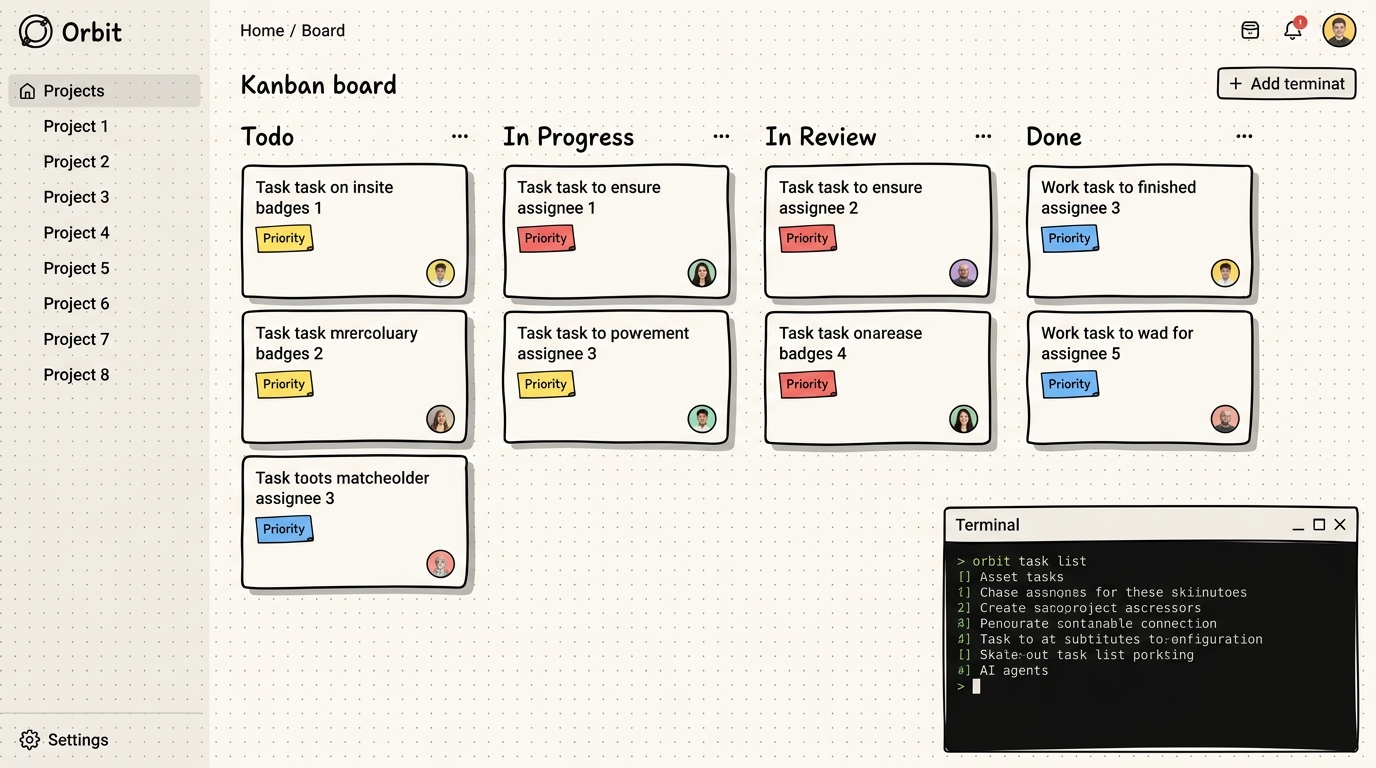
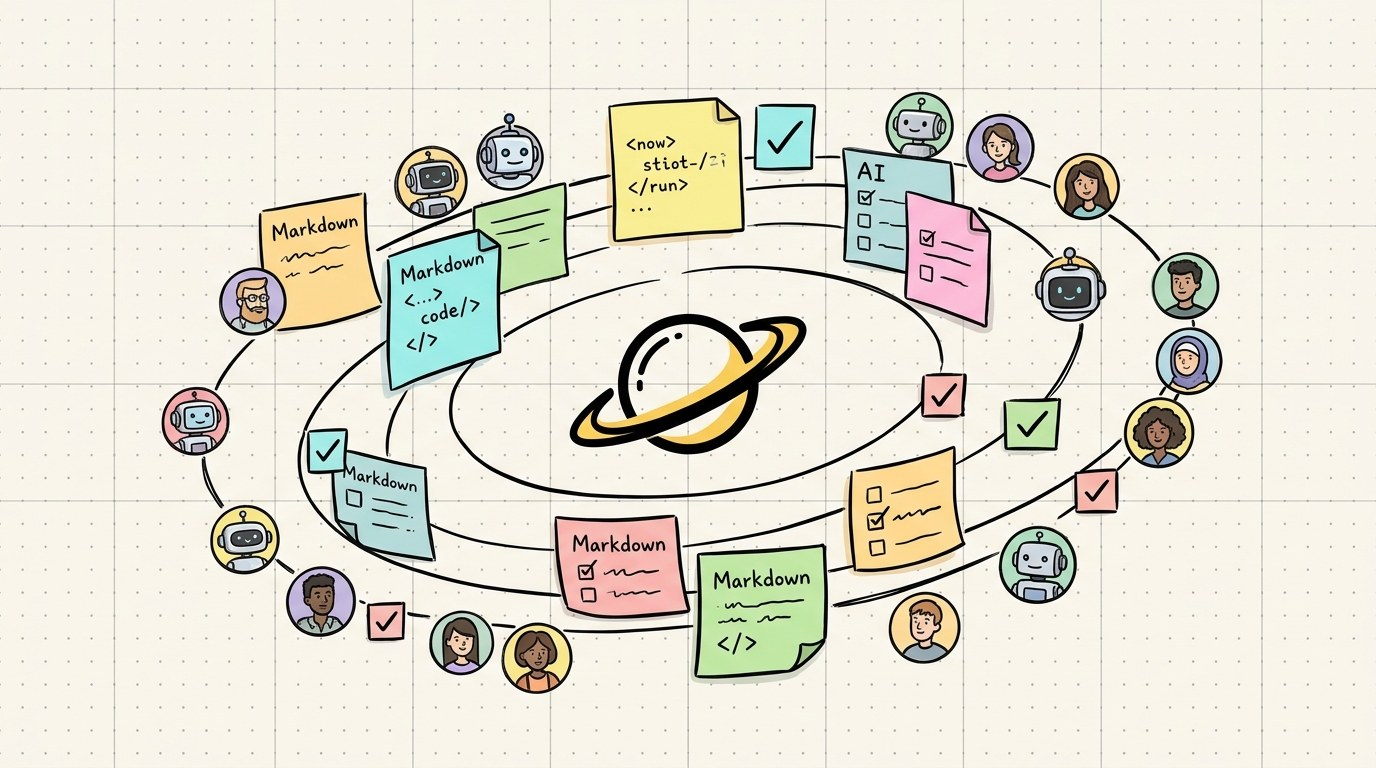
.

diff --git a/src/components/KanbanBoard.tsx b/src/components/KanbanBoard.tsx
@@ -446,20 +446,24 @@ export default function KanbanBoard({ initialTasks, projects, initialProjectFilt
     const colList = activeProject?.columns || DEFAULT_COLUMNS;
     columns = colList.map(c => ({ id: c, label: c.toUpperCase().replace('-', ' ') }));
   } else if (groupBy === 'project') {
-    columns = projects.map(p => ({ id: p.slug, label: p.title, color: p.color }));
+    const visibleProjects = projectFilter ? projects.filter(p => p.slug === projectFilter) : projects;
+    columns = visibleProjects.map(p => ({ id: p.slug, label: p.title, color: p.color }));
   } else if (groupBy === 'priority') {
-    columns = [
-      { id: 'critical', label: '🔥 CRITICAL', color: '#ffcdd2' },
-      { id: 'high', label: '⚡ HIGH', color: '#ffe0b2' },
-      { id: 'medium', label: '📌 MEDIUM', color: '#fff9c4' },
-      { id: 'low', label: '🌱 LOW', color: '#c8e6c9' },
-    ];
+    const visiblePriorities = priorityFilter ? [priorityFilter] : ['critical', 'high', 'medium', 'low'];
+    const priorityDefs: Record<string, { label: string; color: string }> = {
+      critical: { label: '🔥 CRITICAL', color: '#ffcdd2' },
+      high: { label: '⚡ HIGH', color: '#ffe0b2' },
+      medium: { label: '📌 MEDIUM', color: '#fff9c4' },
+      low: { label: '🌱 LOW', color: '#c8e6c9' },
+    };
+    columns = visiblePriorities.map(p => ({ id: p, label: priorityDefs[p]?.label || p, color: priorityDefs[p]?.color }));
   } else if (groupBy === 'assignee') {
-    const assignees = Array.from(new Set(tasks.map(t => t.assignee || 'Unassigned')));
+    let assignees = Array.from(new Set(tasks.map(t => t.assignee || 'Unassigned')));
+    if (assigneeFilter) assignees = assignees.filter(a => a === assigneeFilter);
     columns = assignees.map(a => ({ id: a, label: a || 'Unassigned' }));
   }
 
-  const useScrollableColumns = columns.length > 6;
+  const useScrollableColumns = columns.length > 4;
   const useLargeBoardMode = filteredTasks.length > 200;
   const groupedTasks = useMemo(() => {
     const grouped = new Map<string, Task[]>();
@@ -560,20 +564,35 @@ export default function KanbanBoard({ initialTasks, projects, initialProjectFilt
       <div
         style={{
           display: 'grid',
-          gridTemplateColumns: useScrollableColumns
-            ? `repeat(${columns.length}, minmax(280px, 320px))`
-            : `repeat(${columns.length}, minmax(0, 1fr))`,
+          gridTemplateColumns: `repeat(${columns.length}, minmax(280px, 340px))`,
+          justifyContent: columns.length <= 3 ? 'start' : 'stretch',
           gap: '1rem',
           width: '100%',
           maxWidth: '100%',
-          overflowX: useScrollableColumns ? 'auto' : 'visible',
+          overflowX: 'auto',
           overflowY: 'visible',
-          padding: useScrollableColumns ? '0.35rem 0.35rem 1rem' : '0 0 0.5rem',
+          padding: '0.35rem 0.35rem 1rem',
           alignItems: 'stretch',
-          scrollSnapType: useScrollableColumns ? 'x proximity' : undefined,
+          scrollSnapType: columns.length > 3 ? 'x proximity' : undefined,
           scrollbarWidth: 'thin',
         }}
       >
+        {columns.length === 0 && (
+          <div
+            class="wobbly-border-sm"
+            style={{
+              gridColumn: '1 / -1',
+              padding: '3rem 1rem',
+              textAlign: 'center',
+              backgroundColor: '#ffffff',
+              color: 'var(--fg)',
+              fontFamily: 'var(--font-body)',
+              fontSize: '1.1rem',
+            }}
+          >
+            No projects or columns match the selected filters.
+          </div>
+        )}
         {columns.map((col) => {
           const isDragOverColumn = dragOverColumnId === col.id && draggedTaskSlug !== null;
           const groupTasks = groupedTasks.get(col.id) || [];

diff --git a/README.md b/README.md
@@ -4,7 +4,7 @@
 
 ### A local-first workspace for humans and AI agents.
 
-Plan projects, move work across a beautiful Kanban board, and keep every decision in plain Markdown files that your team—and your agents—can read.
+Plan projects, move work across a hand-drawn Kanban board, and keep every decision in plain Markdown files that your team—and your AI agents—can read and edit in lockstep.
 
 [![Stack](https://img.shields.io/badge/stack-Astro%20%2B%20Preact-ff4d4d?style=flat-square)](https://astro.build/)
 [![Data](https://img.shields.io/badge/data-Markdown-2d2d2d?style=flat-square)](https://www.markdownguide.org/)
@@ -12,30 +12,60 @@ Plan projects, move work across a beautiful Kanban board, and keep every decisio
 
 <br />
 
-<img src="./public/orbit-hero.jpg" alt="Orbit workspace board" width="100%" />
+<img src="./public/orbit-hero.jpg" alt="Orbit workspace hero banner" width="100%" />
 
 </div>
 
-## See Orbit in action
+## 🎨 See Orbit in action
 
-Orbit brings project visibility and task execution into one lightweight workspace.
+Orbit brings project management, Kanban workflows, and AI agent collaboration together into one fast, hand-crafted workspace.
+
+### 📊 Workspace Dashboard & Interactive Board
 
 <table>
   <tr>
     <td width="50%" align="center">
-      <img src="./public/dashboard-preview.png" alt="Orbit project management dashboard showing active projects and task progress" />
+      <img src="./public/dashboard.png" alt="Orbit Workspace Dashboard showing active projects, metrics, and progress" />
       <br />
-      <strong>Workspace dashboard</strong><br />
-      <sub>See project health, task counts, progress, and recent work at a glance.</sub>
+      <strong>Workspace Dashboard</strong><br />
+      <sub>Monitor project health, overall task counts, progress bars, and active project cards at a glance.</sub>
     </td>
     <td width="50%" align="center">
-      <img src="./public/project-board-preview.png" alt="Orbit Kanban board showing tasks grouped by todo, in progress, in review, and done" />
+      <img src="./public/board.png" alt="Orbit Kanban Board showing tasks grouped by status, priority, and assignee" />
       <br />
-      <strong>Project Kanban board</strong><br />
-      <sub>Filter, group, prioritize, assign, and move tasks through your workflow.</sub>
+      <strong>Interactive Kanban Board</strong><br />
+      <sub>Drag & drop tasks, filter by project or priority, quick-cycle status badges, and group by status, project, priority, or assignee.</sub>
     </td>
   </tr>
 </table>
+
+### 📋 Task Master List & Project Deep-Dives
+
+<table>
+  <tr>
+    <td width="50%" align="center">
+      <img src="./public/list.png" alt="Orbit Task Master List view with search, filters, and due dates" />
+      <br />
+      <strong>Task Master List</strong><br />
+      <sub>Scan, search, and manage every task across your entire workspace in a clean, compact table view.</sub>
+    </td>
+    <td width="50%" align="center">
+      <img src="./public/project.png" alt="Orbit Project View with project details, progress overview, and project board" />
+      <br />
+      <strong>Project Overview & Board</strong><br />
+      <sub>Focus on a single project, track progress metrics, and manage project-specific tasks in isolation.</sub>
+    </td>
+  </tr>
+</table>
+
+### 📦 Seamless Import & Export (Zero Lock-in)
+
+<div align="center">
+  <img src="./public/import.png" alt="Orbit Import and Export data modal" width="80%" />
+  <br />
+  <sub>Export your entire workspace into a standard ZIP archive or import/restore backups with a single click.</sub>
+</div>
+
 
 ## Why Orbit?
 
